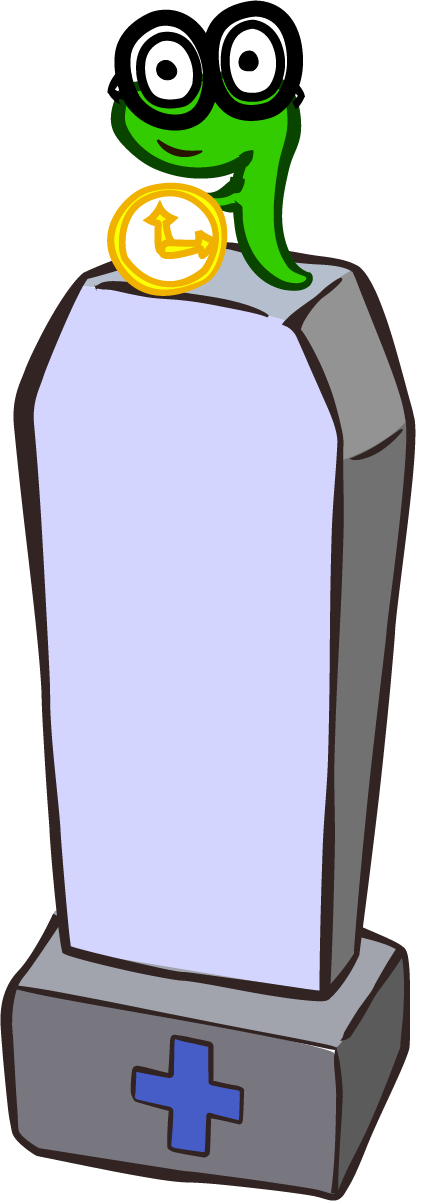
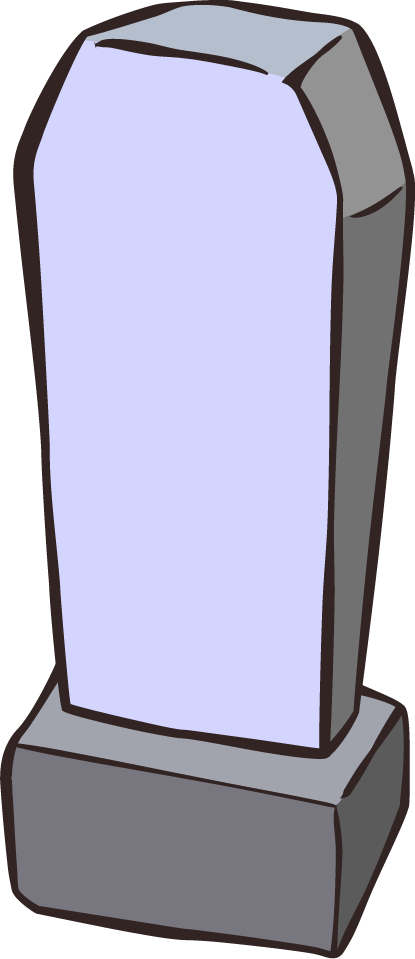
新增CreatePlan按鈕動畫

diff --git a/Defined_css/layout_auth.css b/Defined_css/layout_auth.css
@@ -43,16 +43,16 @@ aside #aside_arrow{
 
 @keyframes arrow_flash
 {
-0%   {background: url(../img/aside/arrow.png) no-repeat}
+0%   {background: url(../img/aside/arrow.png) no-repeat;}
 50%   {background: no-repeat;}
 100% {background: url(../img/aside/arrow.png) no-repeat;}
 }
 
 @-webkit-keyframes arrow_flash /* Safari and Chrome */
 {
-0%   {background: url(../img/aside/arrow.png) no-repeat}
+0%   {background: url(../img/aside/arrow.png) no-repeat;}
 50%   {background: no-repeat;}
-100% {background: url(../img/aside/arrow.png) no-repeat}
+100% {background: url(../img/aside/arrow.png) no-repeat;}
 }
 
 aside #aside_bug{
@@ -74,7 +74,7 @@ aside #aside_contents{
 	
 	position: relative;
 
-    background: url(../img/aside/stone_1.png) no-repeat;
+    background: url(../img/aside/stone.png) no-repeat;
 	z-index:400;
     background-size: contain;
 
@@ -118,6 +118,10 @@ aside #aside_contents #list_plans li{
     //border-top: 1px dotted purple;
 }
 
+aside #new_plan:active{
+	background-image: url(../img/aside/add_trigger.png);
+}
+
 aside #new_plan{
 	position: absolute;
 	top:458px;
@@ -127,7 +131,9 @@ aside #new_plan{
 	z-index:500;
 	text-align: center;
 	line-height: 22px;
-    background: url(../img/aside/add.png) no-repeat;
+	background-image: url(../img/aside/add_trigger.png);
+    background-image: url(../img/aside/add.png);
+	background-repeat:no-repeat;
 	background-size:contain;
     font-size: 22px;
 	
@@ -136,6 +142,7 @@ aside #new_plan{
 	cursor:pointer;
     color: brown;
 	font-weight: bold;
+	
 }
 
 #auth{
